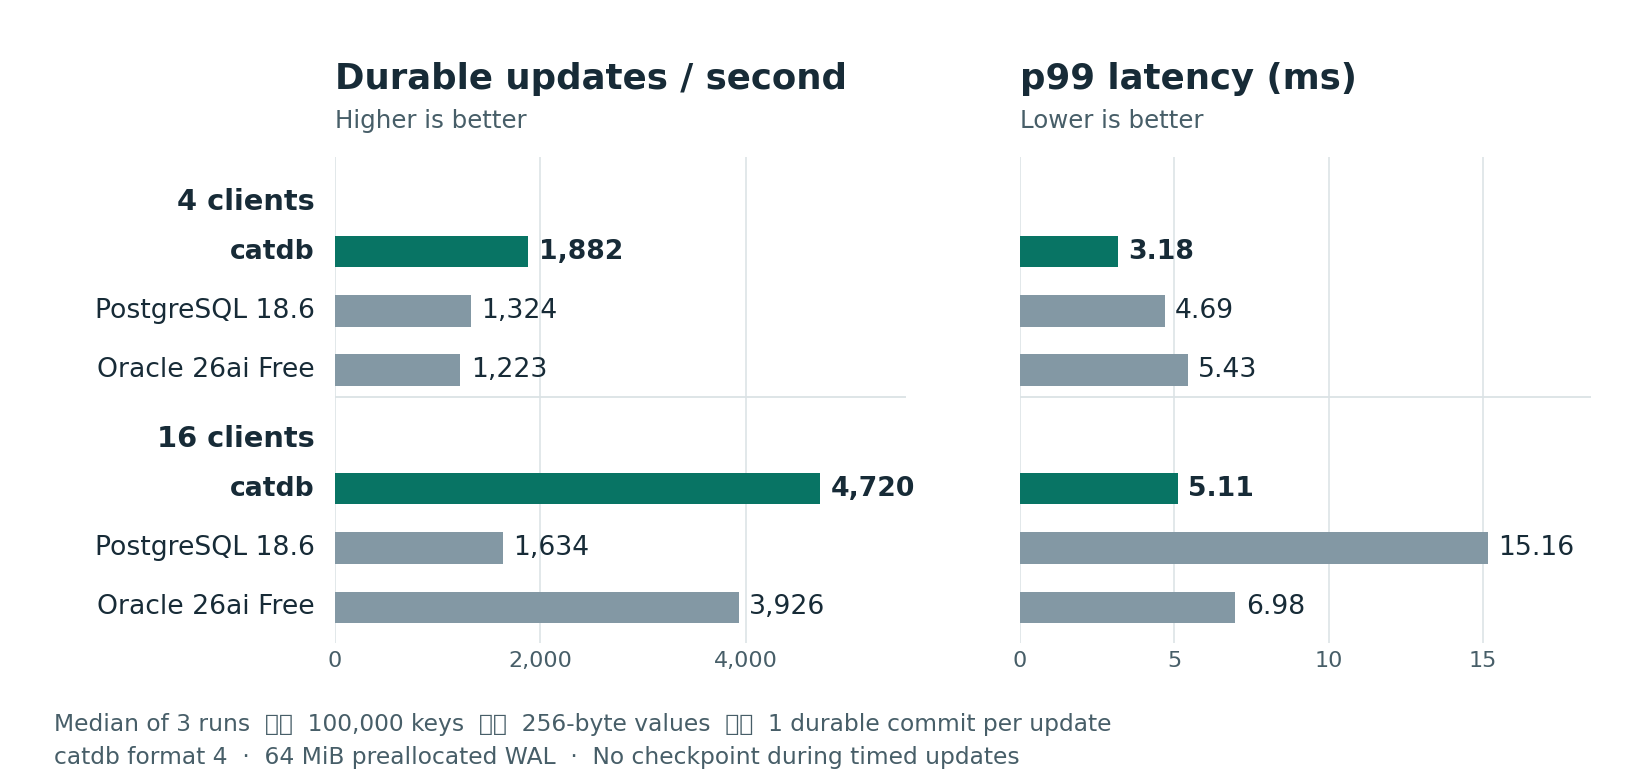
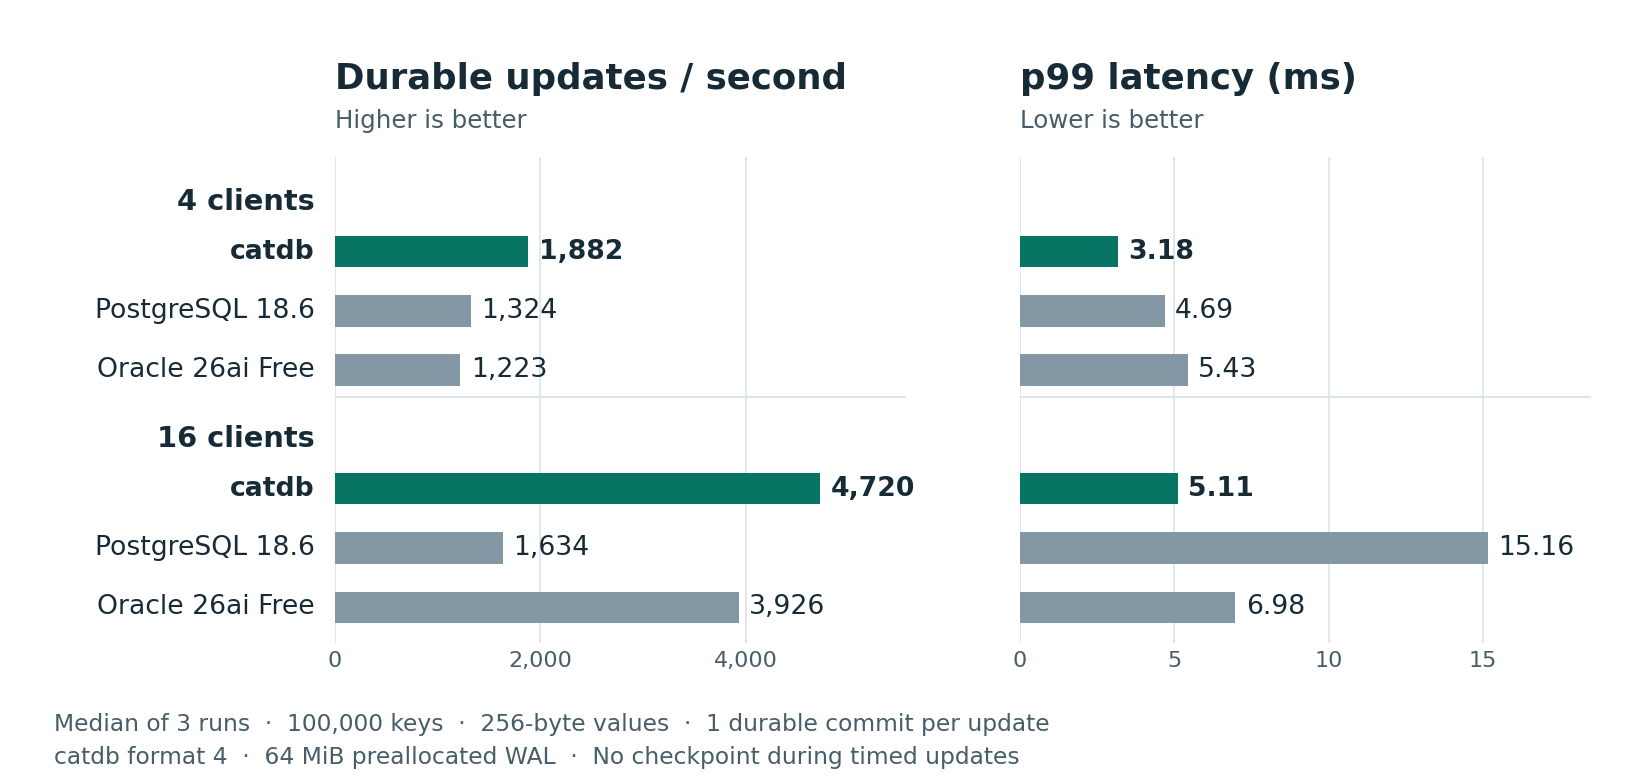
Render the benchmark condition labels consistently

Changed region(s): [[0.1562, 0.8878, 0.6875, 0.949]]

diff --git a/benchmarks/redo-witness/readme_chart.py b/benchmarks/redo-witness/readme_chart.py
@@ -49,7 +49,7 @@ for column, (metric, title, direction, limit, ticks) in enumerate(metrics):
             ax.text(value + limit * .018, y, number, ha="left", va="center", color=ink, weight=weight)
     ax.axhline(3.55, color="#dbe2e5", lw=.8)
 
-fig.text(.033, .067, "Median of 3 runs  ﾂｷ  100,000 keys  ﾂｷ  256-byte values  ﾂｷ  1 durable commit per update",
+fig.text(.033, .067, "Median of 3 runs  ·  100,000 keys  ·  256-byte values  ·  1 durable commit per update",
          fontsize=10.5, color=muted)
 fig.text(.033, .025, "catdb format 4  ·  64 MiB preallocated WAL  ·  No checkpoint during timed updates",
          fontsize=10.5, color=muted)
